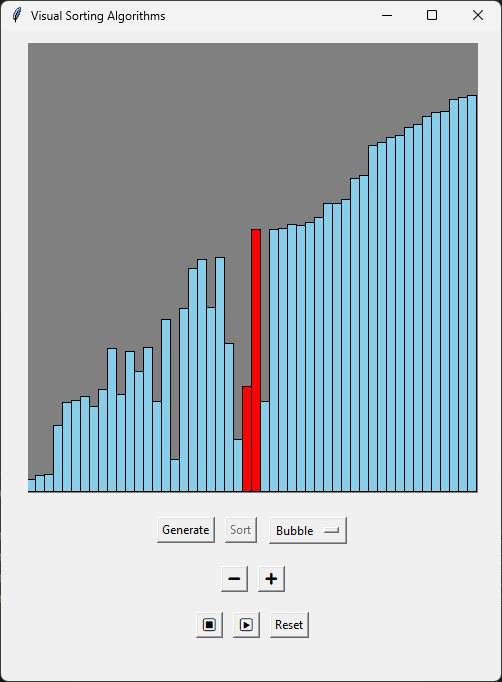
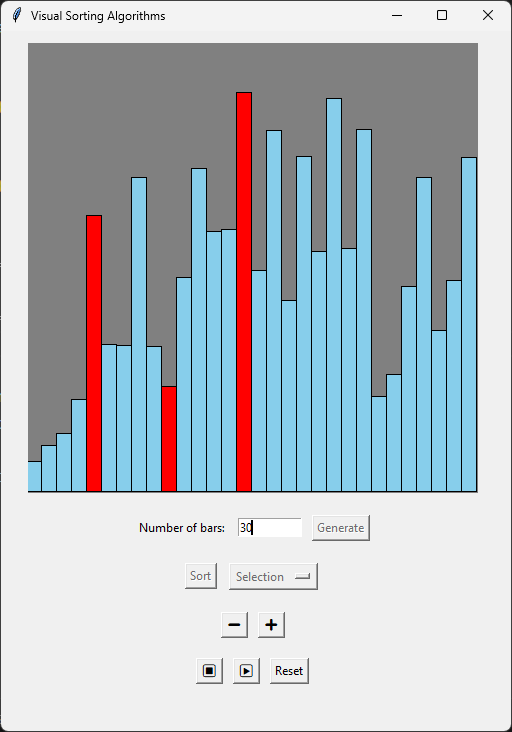
docs: update readme

diff --git a/README.md b/README.md
@@ -4,45 +4,50 @@ A Python application that visualizes sorting algorithms using Tkinter GUI. This 
 
 ## Features
 
-- **Algorithm Visualization**: Watch the sorting process in real-time with colored bars
-- **Multiple Algorithms**: Currently supports Bubble Sort and Insertion Sort
-- **Playback Controls**: Start, stop, continue, and reset sorting operations
-- **Speed Adjustment**: Control the visualization speed (faster/slower)
-- **Random Data Generation**: Create new random datasets to sort
+* **Algorithm Visualization**: Watch the sorting process in real-time with colored bars
+* **Multiple Algorithms**: Currently supports Bubble Sort, Insertion Sort, and Selection Sort
+* **Playback Controls**: Start, stop, continue, and reset sorting operations
+* **Speed Adjustment**: Control the visualization speed (faster/slower)
+* **Random Data Generation**: Create new random datasets to sort
+* **Customizable Data Size**: Choose how many elements to sort
 
 ## How to Use
 
-1. Click the **Generate** button to create a random array of values (represented as bars)
-2. Select a sorting algorithm from the dropdown menu (Bubble or Insertion)
-3. Click the **Sort** button to start the visualization
-4. Use the playback controls:
-   - ⏹ (Stop): Pause the sorting process
-   - ▶ (Continue): Resume a paused sorting process
-   - **Reset**: Clear the canvas and reset all values
-5. Adjust the sorting speed using the ➖ (slower) and ➕ (faster) buttons
+1. Enter the number of elements you want to sort
+2. Click the **Generate** button to create a random array of values (represented as bars)
+3. Select a sorting algorithm from the dropdown menu (Bubble, Insertion, or Selection)
+4. Click the **Sort** button to start the visualization
+5. Use the playback controls:
+
+   * ⏹ (Stop): Pause the sorting process
+   * ▶ (Continue): Resume a paused sorting process
+   * **Reset**: Clear the canvas and reset all values
+6. Adjust the sorting speed using the ➖ (slower) and ➕ (faster) buttons
 
 ## Screenshots
+
 ![Generated bars](assets/img.png)
 ![Sorting visualization in action](assets/img2.png)
 
-
 ## Visual Feedback
 
-- **Blue bars**: Unsorted/normal elements
-- **Red bars**: Elements currently being compared or moved
-- **Green bars**: Completely sorted array (when sorting is finished)
+* **Blue bars**: Unsorted/normal elements
+* **Red bars**: Elements currently being compared or moved
+* **Green bars**: Completely sorted array (when sorting is finished)
 
 ## Implementation Details
 
-- Written in Python using Tkinter for the GUI
-- Implements step-by-step visualization of sorting algorithms
-- Uses canvas for rendering the bars
-- Each algorithm is implemented as a recursive function with step-by-step execution
+* Written in Python using Tkinter for the GUI
+* Implements step-by-step visualization of sorting algorithms
+* Uses canvas for rendering the bars
+* Each algorithm is implemented as a recursive function with step-by-step execution
+* Algorithms track their state to support pausing and resuming
+* Uses after() method for animation timing
 
 ## Requirements
 
-- Python 3.x
-- Tkinter
+* Python 3.x
+* Tkinter (included in standard Python installation)
 
 ## Running the Application
 
